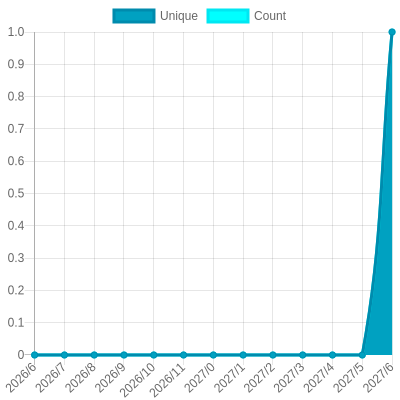
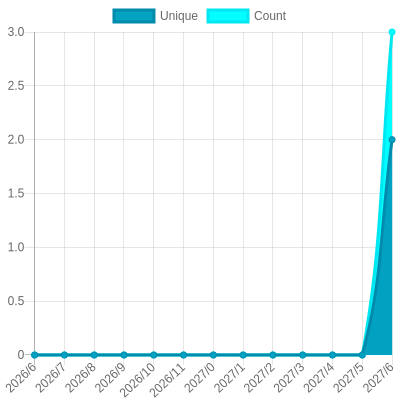
Update views

diff --git a/readme/1075619275/year.md b/readme/1075619275/year.md
@@ -23,10 +23,10 @@
 			<code>2026/7/1</code>
 		</td>
 		<td>
-			<code>1</code>
+			<code>2</code>
 		</td>
 		<td>
-			<code>1</code>
+			<code>3</code>
 		</td>
 	</tr>
 	<tr>
@@ -164,7 +164,7 @@
 </table>
 
 </details>
-<small><i>Last updated on 2026/7/24 1:28 AM UTC</i></small>
+<small><i>Last updated on 2026/7/24 8:05 AM UTC</i></small>
 
 ## ✂Copy and 📋 Paste
 ### SVG Badge

diff --git a/README.md b/README.md
@@ -53,7 +53,7 @@ The project created and maintained by [gayanvoice](https://github.com/gayanvoice
 	</tr>
 </table>
 
-<small><i>Last updated on 2026/7/24 1:28 AM UTC</i></small>
+<small><i>Last updated on 2026/7/24 8:05 AM UTC</i></small>
 
 ## ✂Copy and 📋 Paste
 ### Total Views Badge

diff --git a/readme/1208882536/year.md b/readme/1208882536/year.md
@@ -164,7 +164,7 @@
 </table>
 
 </details>
-<small><i>Last updated on 2026/7/24 1:27 AM UTC</i></small>
+<small><i>Last updated on 2026/7/24 8:04 AM UTC</i></small>
 
 ## ✂Copy and 📋 Paste
 ### SVG Badge
